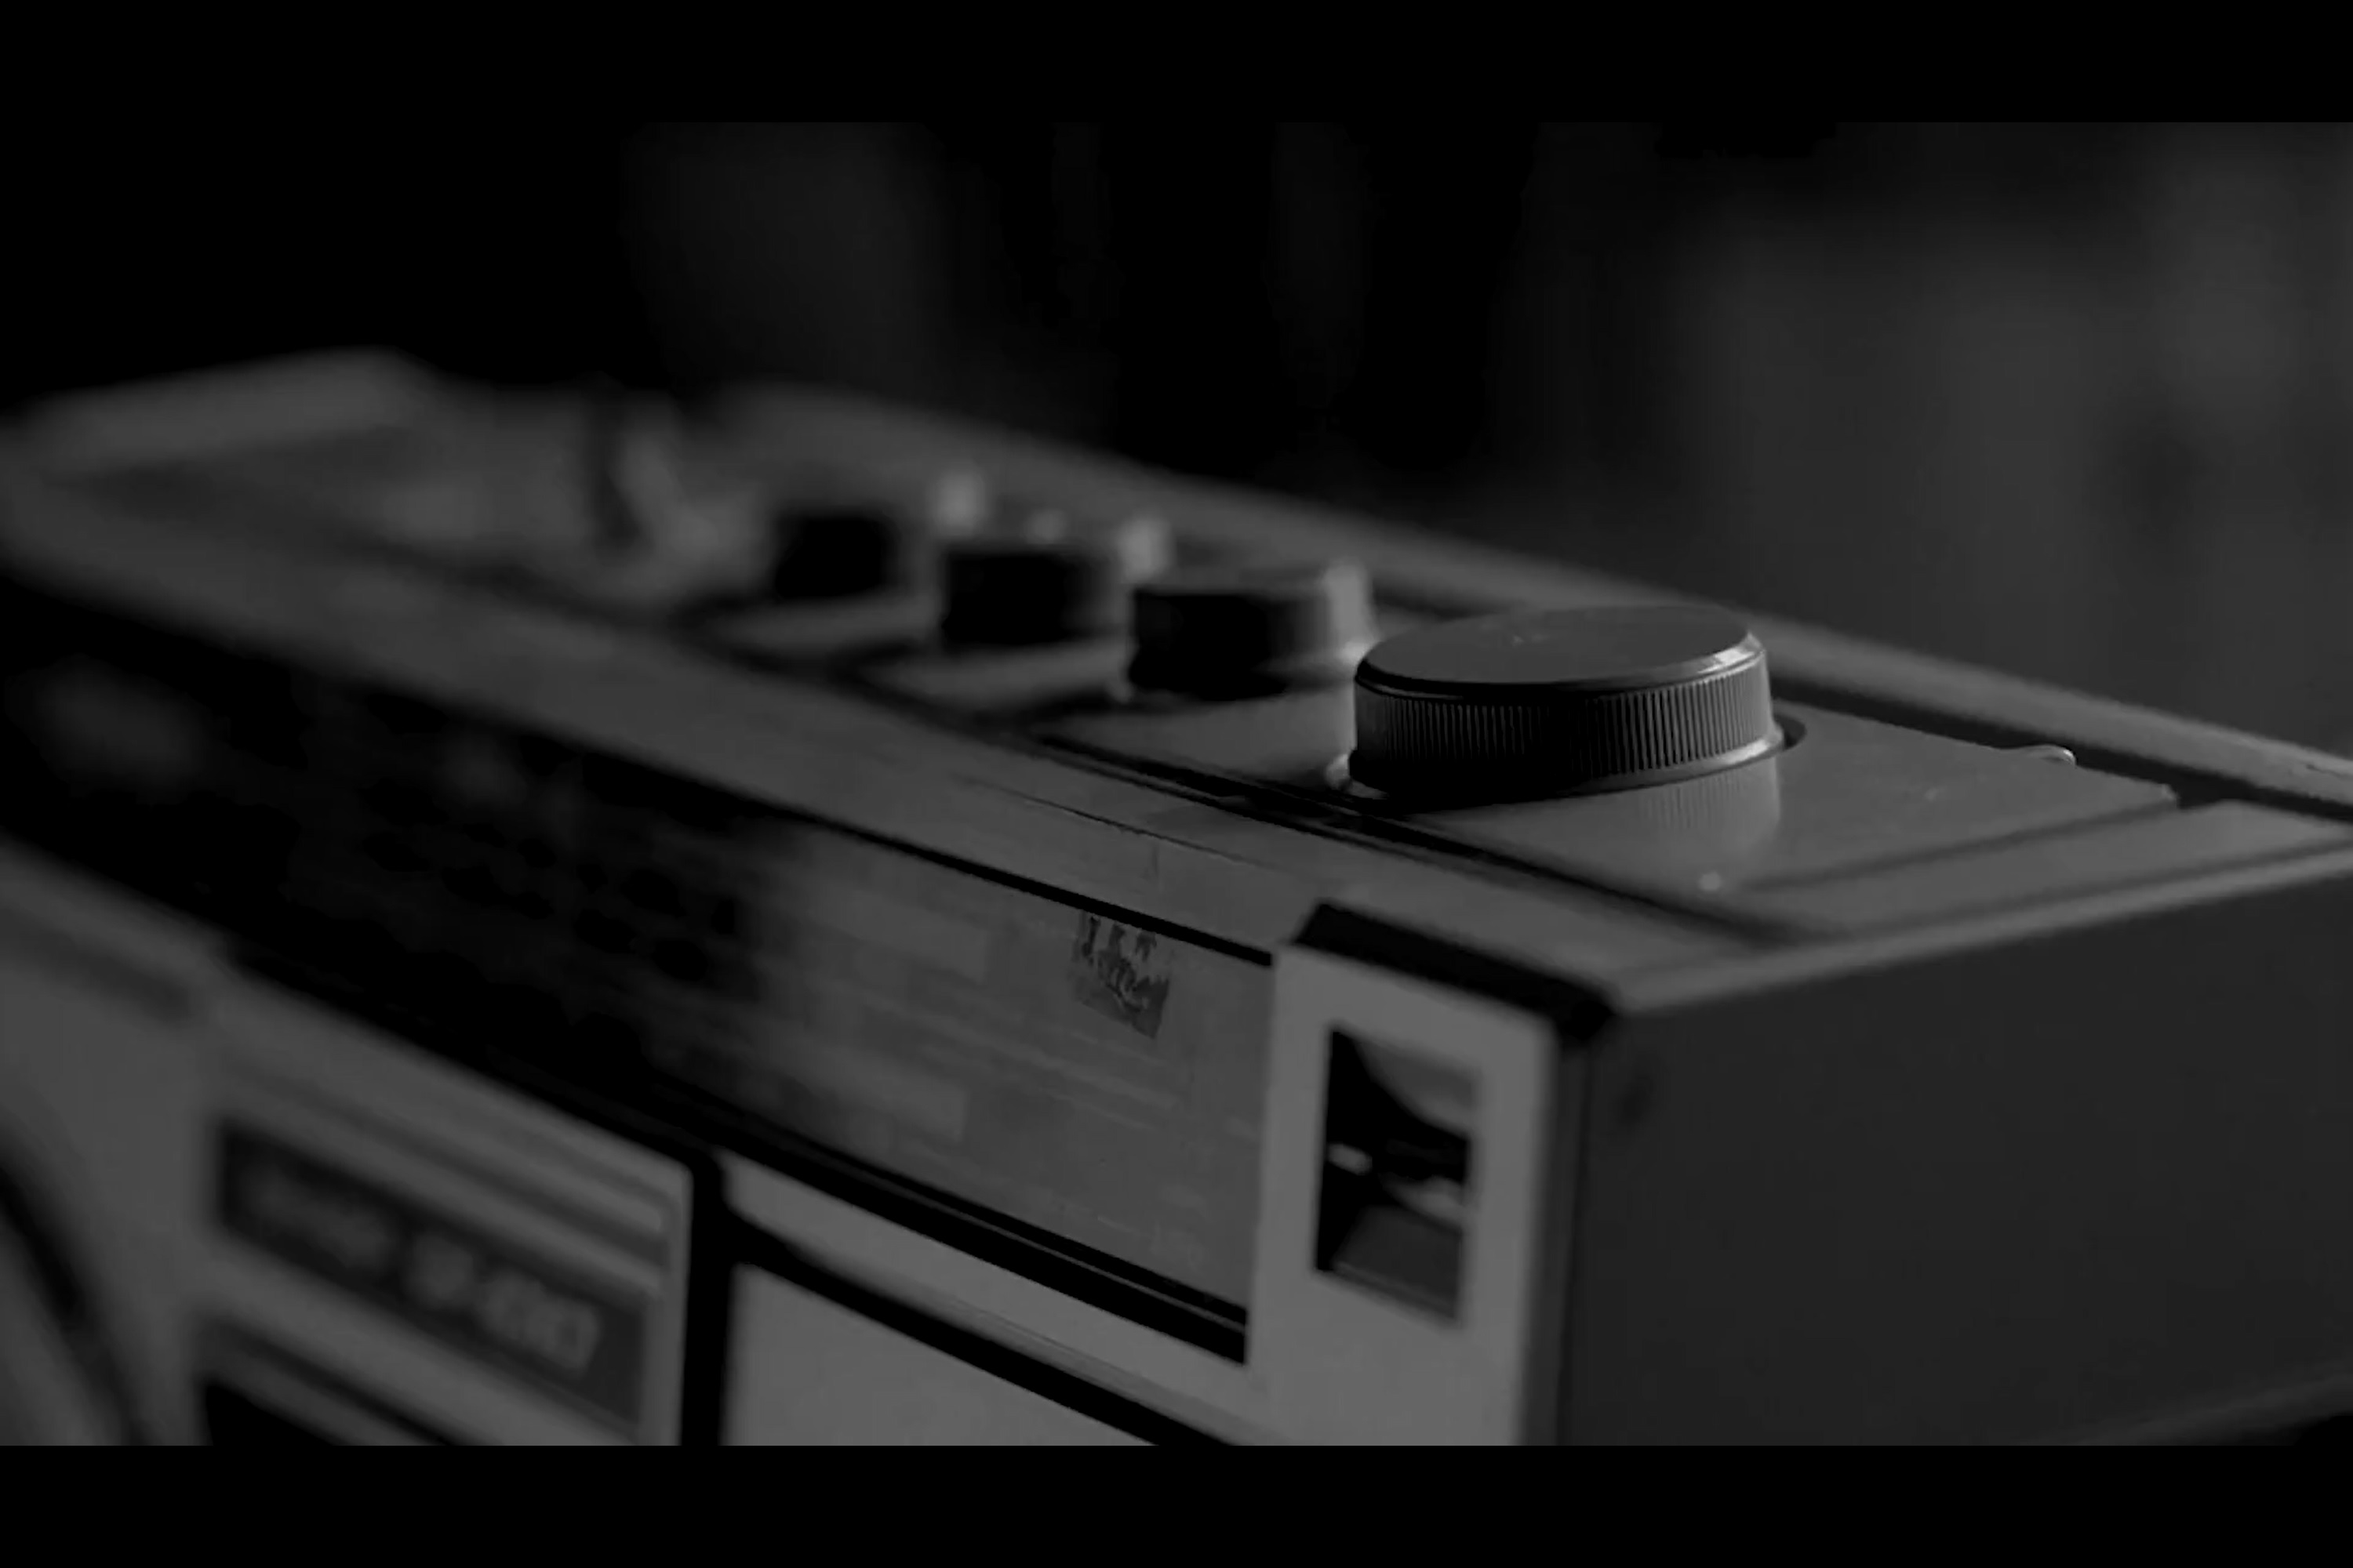
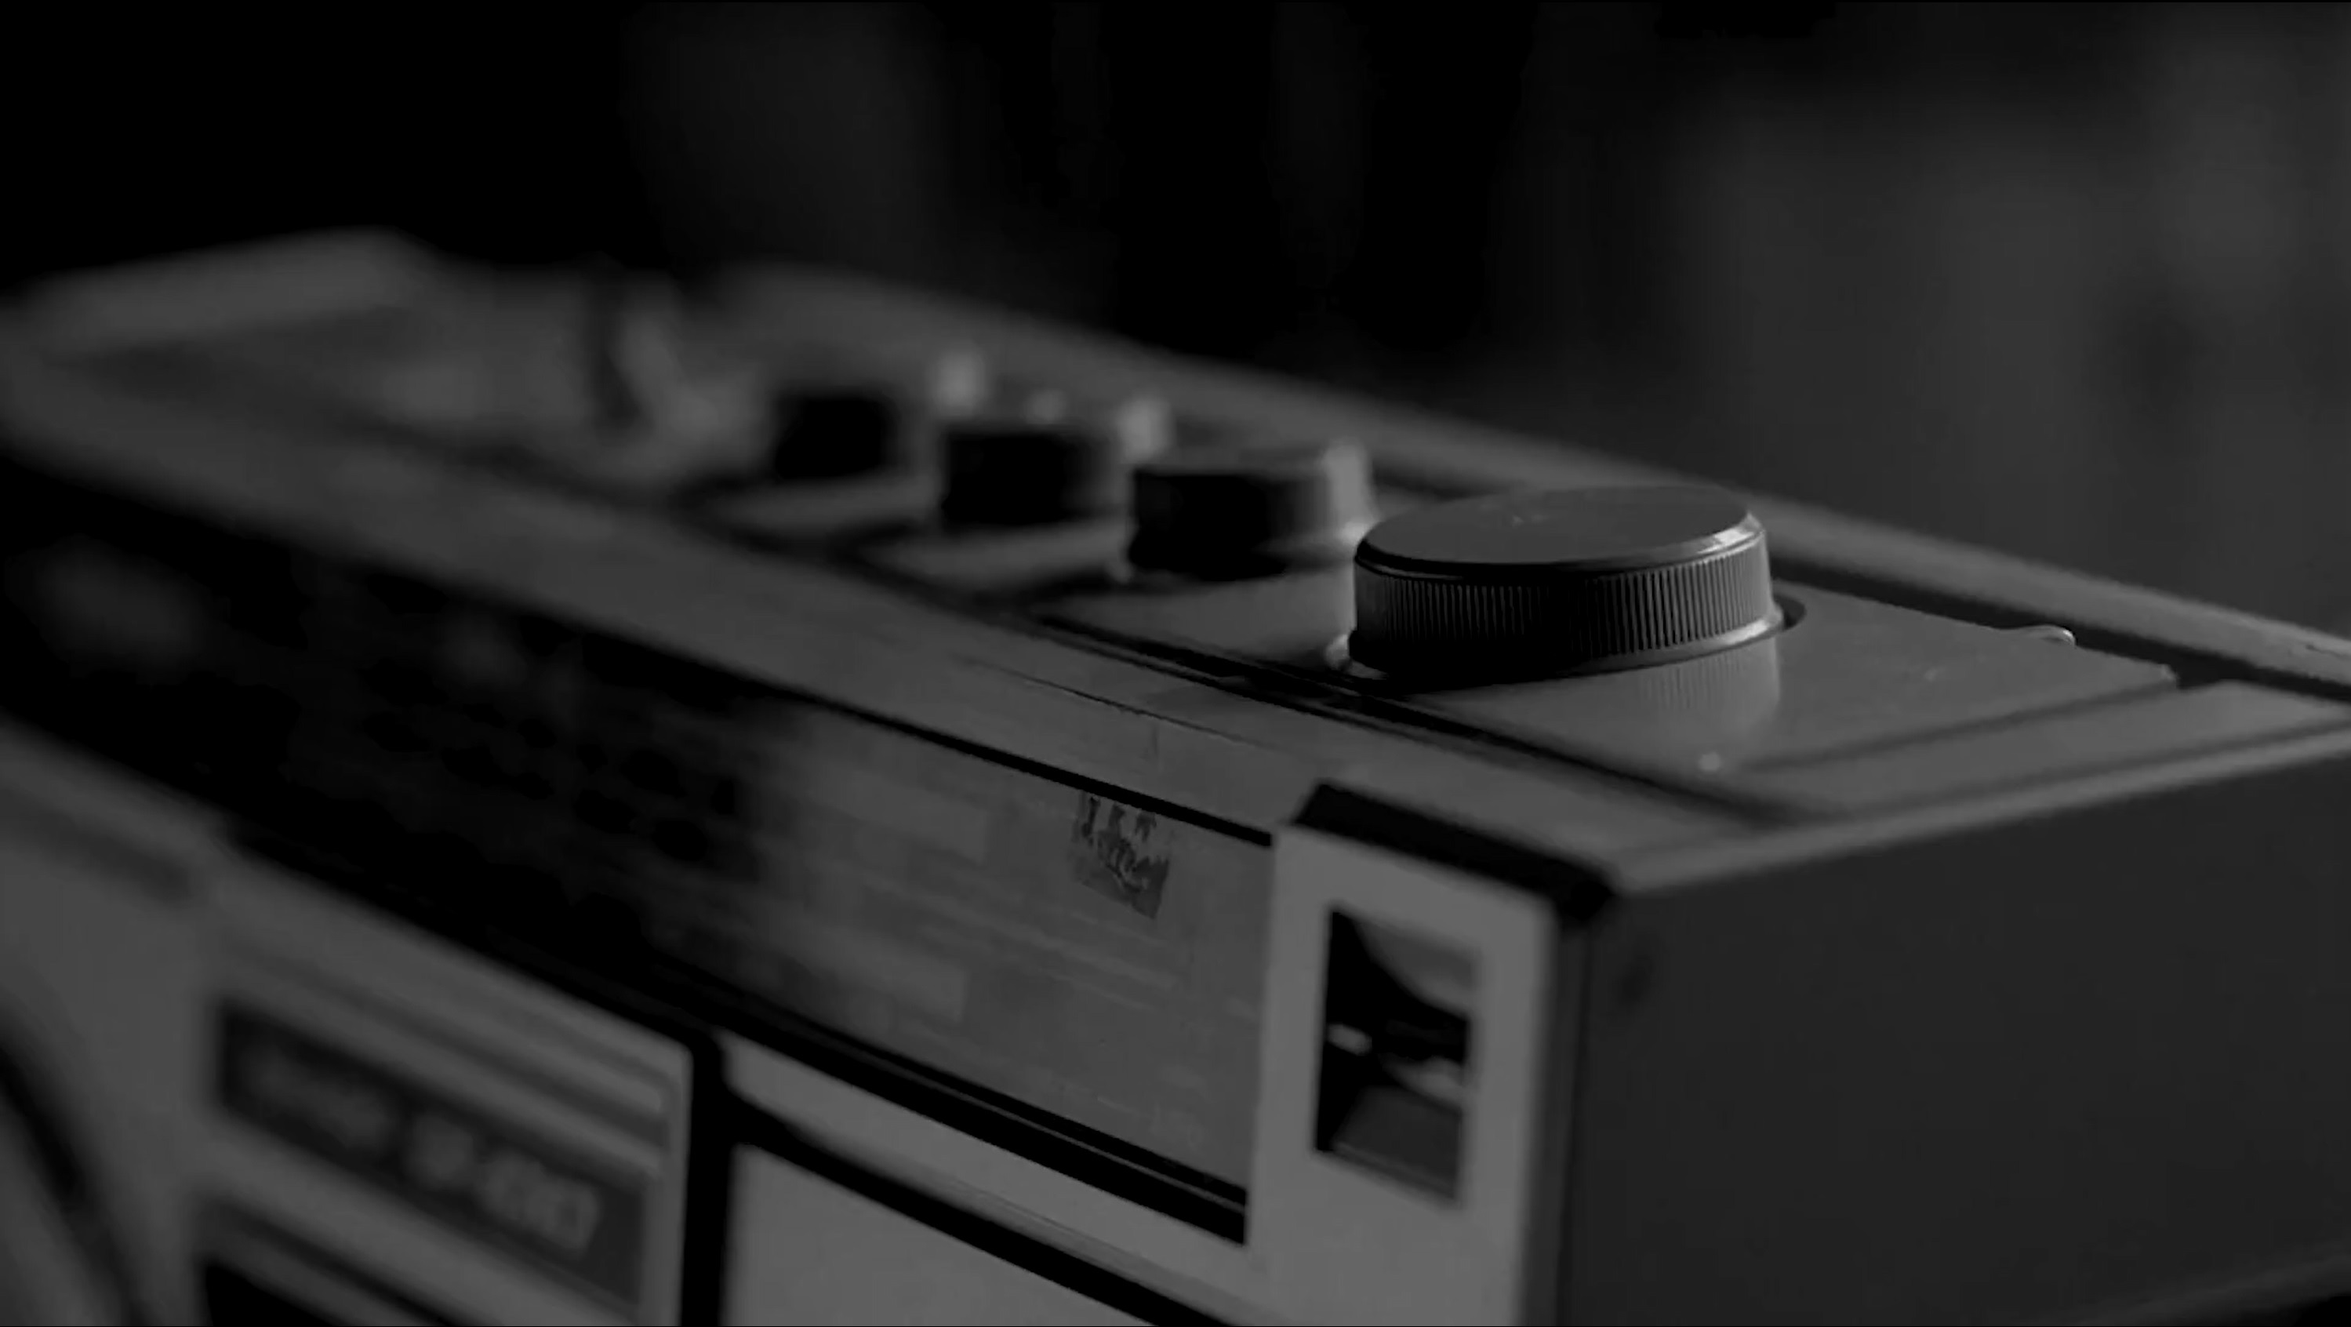
changed poster

diff --git a/css/landing.css b/css/landing.css
@@ -13,7 +13,11 @@ html, body {
     bottom: 0;
     left: 0;
     overflow: hidden;
-    z-index: -100;
+    z-index:-100;
+}
+
+video{
+    object-fit:contain;
 }
 
 .fullscreen-bg__video {
